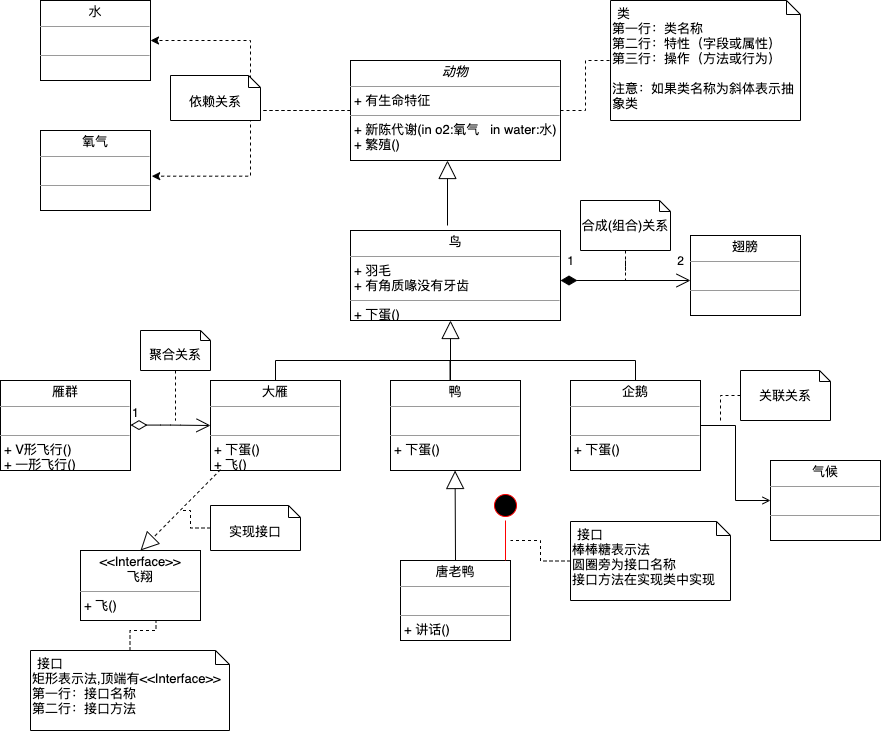
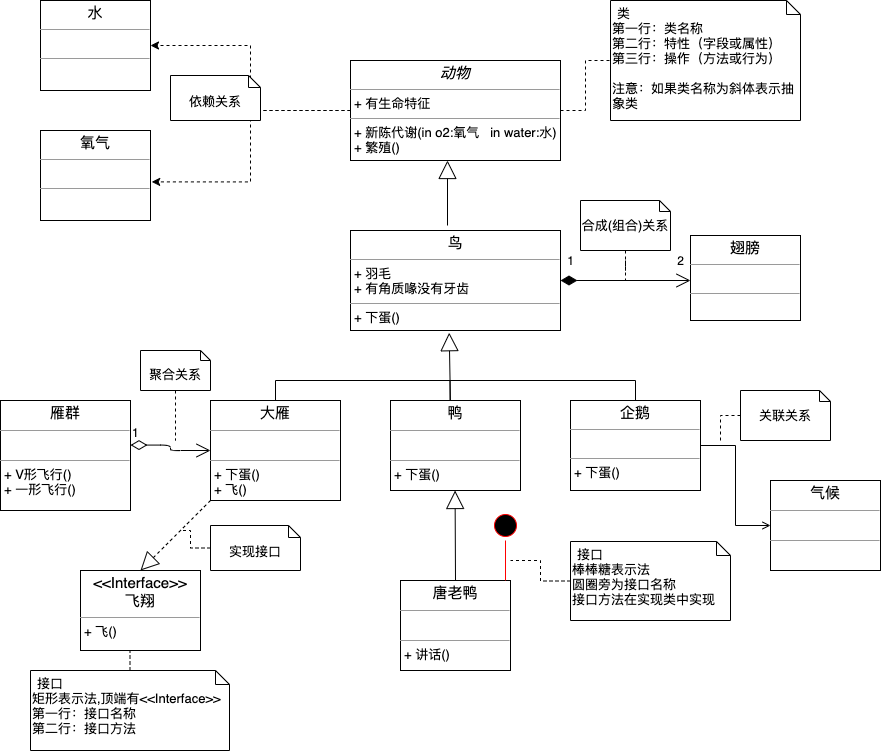
UML画图学习

diff --git a/uml规范.md b/uml规范.md
@@ -6,12 +6,9 @@
 
 ### UML 
 
-这里根据大话设计模式中的例子，重新花了这个关系的 uml 类图  
+这里根据【大话设计模式中】中动物和鸟关系的例子，重新画了这个关系的 uml 类图    
 
 <img src="/img/uml-demo.png"  alt="uml" align=center />
-
-
-
 
 ### 参考
 
